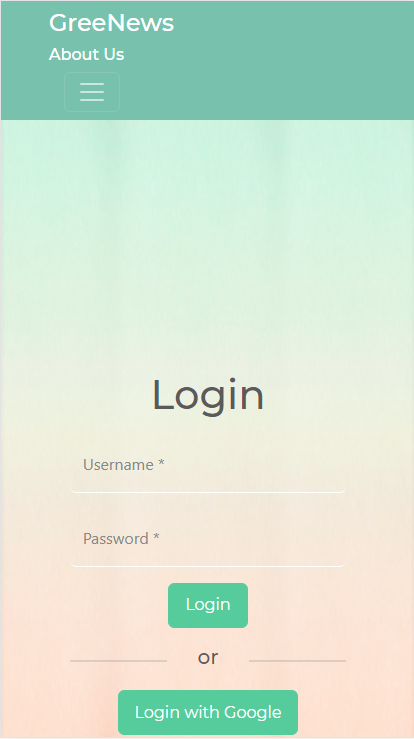
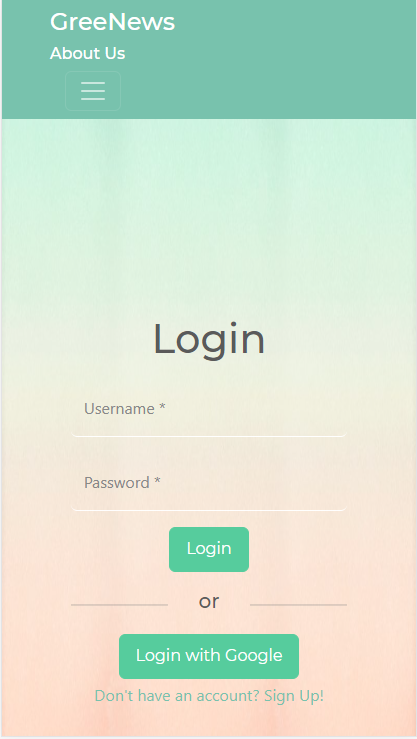
Fix minor bugs

diff --git a/html/style/login&signup.css b/html/style/login&signup.css
@@ -8,7 +8,7 @@ body{
 
 .layout{    /*to align content according to the size of the screen*/
   width:100%;
-  height:100%;
+  height:90%;
   margin:0;
 }
 

diff --git a/html/templates/signup.php b/html/templates/signup.php
@@ -5,7 +5,7 @@
 
 
 <div class="container">
-    <div class="row layout align-items-center mt-5 mt-sm-0">
+    <div class="row layout align-items-center">
         <div class="col-md-4 col-sm-2"></div>
         <div class="col-12 col-md-4 col-sm-8">
             <div class="row login_form">
@@ -63,7 +63,6 @@
             <div class="col-md-4 col-sm-2"></div>
         </div>
     </div>
-    <div class="row lower"></div>
 
     <script defer src="../js/login.js"></script>
 

diff --git a/html/templates/login.php b/html/templates/login.php
@@ -51,7 +51,6 @@
             <div class="col-md-4 col-sm-2"></div>
         </div>
     </div>
-    <div class="row lower"></div>
 
     <script defer src="../js/login.js"></script>
 
